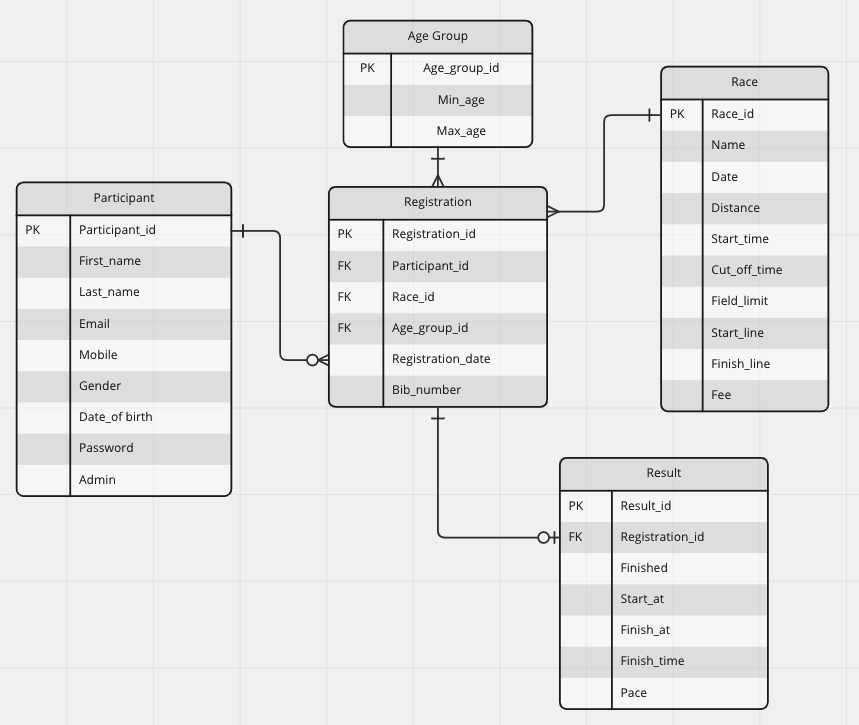
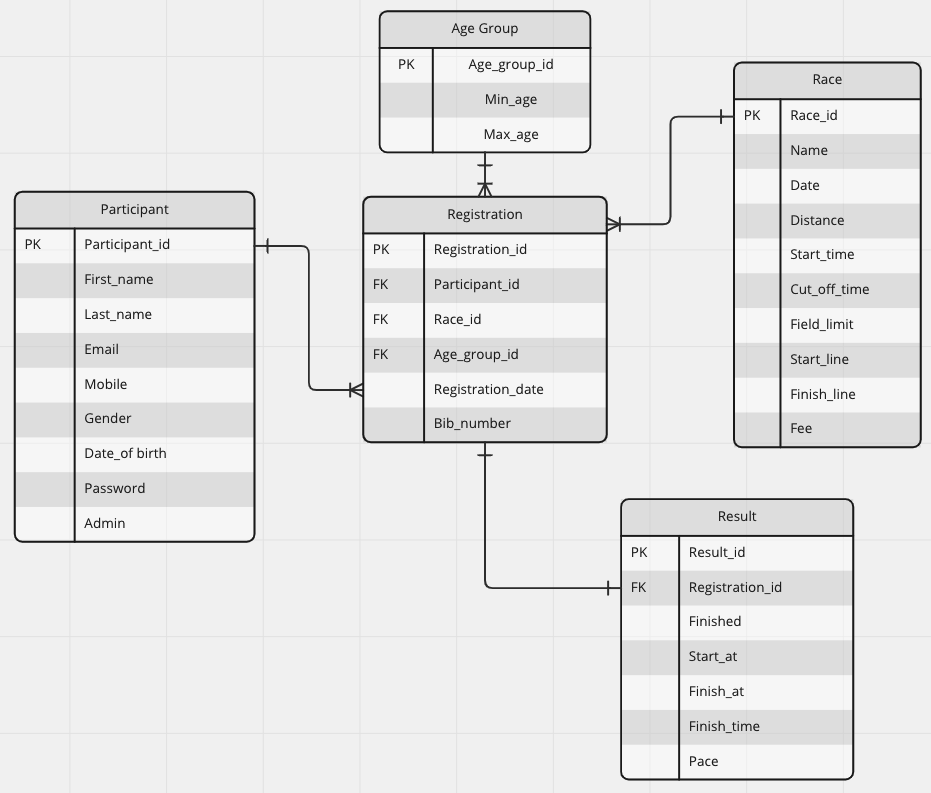
updated readme

Changed region(s): [[0.3329, 0.0, 0.9988, 0.7586], [0.0, 0.2428, 0.3329, 0.6979], [0.6054, 0.6069, 0.9383, 1.0]]

diff --git a/README.MD b/README.MD
@@ -1,3 +1,13 @@
+## Problem to be solved and reasons why it needs solving
+
+Every year, thousands of long-distance running festivals take place around the world. As a marathon lover, currently, there is no good way for me to view all of the past running events' data in one place, so an API that stores all the data could be a valuable resource for the public.
+
+The API can provide historical data on previous races, such as participants' information, race information, and overall results based on selected race, age group, and gender. With all these data, this API can act as a tool for the users to analyse their performance compared with world-leading runners, and keep updated with running events happening every day.
+
+With some tweaks, this API can also provide live updates on the status of runners during a race. By cooperating with event organisers, the API can get real-time information about the events and participants, such as weather, runners' live locations, time used, and distance travelled. The audience can utilise the information to track their preferred runners, while coaches can also use it to analyse runners' performance and prepare future coaching plans.
+
+Overall, this API that collects data on long-distance running events could be a useful resource for anyone involved in the sport, including runners, coaches, event organisers and audiences.
+
 ## How to install and run the API
 
 Python3 is required for this project. Before getting into the database, the user needs to activate the virtual environment and install the required packages. Make sure you are in the path /src, and run below commands in terminal:
@@ -8,7 +18,7 @@ source .venv/bin/activate
 pip install requirement.txt
 ```
 
-This API runs on a database called 'marathon_race', so a database and user need to be created first. To create the database, activate PostgreSQL and run the below commands in PostgreSQL:
+This API runs on a database called 'marathon_race', so a database and user must be created first. To create the database, activate PostgreSQL and run the below commands in PostgreSQL:
 
 ```sql
 CREATE DATABASE marathon_race;
@@ -24,33 +34,35 @@ flask db seed
 flask run
 ```
 
+## Database system advantages and drawbacks
+
+The selected database system is PostgreSQL. The main reasons include:
+
+- A non-relational database is more commonly used to store data that are not convenient to be represented by two-dimensional tables, such as text, pictures, and reports. The structure of two-dimensional tables is closer to the real w world and easy to understand. Also, relational databases are easy to use with common SQL statements. In this API, the data, such as participants' information, race information, and results, are more suitable to be stored in two-dimensional tables, so a relational database system is selected in this case.  <sup>[1]</sup>
+
+- Among all of the relational database systems, PostgreSQL has been selected mainly because PostgreSQL is an open-source, accessible, and robust relational database management system. In addition, it has excellent documentation and community support, making it simple to learn and use.
+- PostgreSQL is ACID (Atomicity, Consistency, Isolation, and Durability) compliant, reducing the possibility of data redundancy and inconsistency. <sup>[2]</sup>
+
+- PostgreSQL provides excellent language support, including Python, the primary language used in this API.
+
+- The write-ahead logging standard makes PostgreSQL a stable database with less possibility of data being non-recoverable. 
+
+However, PostgreSQL can also have some drawbacks compared with other DBMSs, such as:
+
+- As a relational database system, PostgreSQL is not as flexible as non-relational databases. In addition, the predefined data structure makes the data storing more limited and data querying less efficient than others.
+
+- Because PostgreSQL is open source and not controlled by a single organisation, it is generally less user-friendly than other DBMSs, such as its graphical user interface.
+- The disadvantage that comes with ACID transactions is the slower speed of reading and writing operations. <sup>[3]</sup>
+
+## Key functionalities and benefits of an ORM
+
+- ORM provides mapping to relational databases, which allows developers to manipulate data, such as processing CRUD (create, read, update, and delete) operations in the database by writing codes in their familiar programming languages instead of raw SQL statements. 
+- The database access details are hidden under the hoods, making the codes cleaner and development faster.
+- Minimum code changes are required when the database changes, making switching between databases fast and easy. <sup>[4]</sup>
+- SQL injection is a kind of online attack, using SQL statements, to try to steal confidential information of a program from the backend. An ORM can effectively reduce the risk of SQL injection by significantly eliminating the use of raw SQL queries. <sup>[5]</sup>
+- ORM allows sanitising the data using own-defined statements and reduces data security and usability issues. 
+
 ## Endpoints
-
-Below responses may apply to all routes that required JWT access token.
-
-- Error: missing authorization header
-
-```json
-{
-    "msg": "Missing Authorization Header"
-}
-```
-
-- Error: token expired
-
-```json
-{
-    "msg": "Token has expired"
-}
-```
-
-- Error: invalid token
-
-```json
-{
-    "msg": "Signature verification failed"
-}
-```
 
 ------------------------------------------------------------------------------------------
 
@@ -61,14 +73,14 @@ Below responses may apply to all routes that required JWT access token.
 
 #### Required data
 
-The user needs to send below data in a JSON format.
+The user needs to send the below data in JSON format.
 
 | Name          | Required | Data type | Description                                                          |
 |---------------|----------|-----------|----------------------------------------------------------------------|
 | first_name    | required | string    | must only contain alphabet letters                                   |
 | last_name     | required | string    | must only contain alphabet letters                                   |
 | email         | required | string    | must be a valid email address                                        |
-| mobile        | required | string    | must be a valid Australian mobile number starts with 04              |
+| mobile        | required | string    | must be a valid Australian mobile number starting with 04              |
 | password      | required | string    | must be at least 8 letters long and have at least 1 uppercase letter |
 | date_of_birth | required | string    | must be in a format of yyyy-MM-dd                                    |
 | gender        | required | string    | must be in ['male', 'female']                                        |
@@ -134,11 +146,11 @@ The user needs to send below data in a JSON format.
 
 The user is required to login with either email or mobile. If both are provided, the API will look for existing user with email first, if none, then it will search with mobile.
 
-| Name          | Required | Data type | Description                                                          |
-|---------------|----------|-----------|----------------------------------------------------------------------|
-| email         | optional | string    | must be a valid email address                                        |
-| mobile        | optional | string    | must be a valid Australian mobile number starts with 04              |
-| password      | required | string    | must be at least 8 letters long and have at least 1 uppercase letter |
+| Name     | Required | Data type | Description                                                  |
+| -------- | -------- | --------- | ------------------------------------------------------------ |
+| email    | optional | string    | must be a valid email address                                |
+| mobile   | optional | string    | must be a valid Australian mobile number starting with 04    |
+| password | required | string    | must be at least 8 letters long and have at least 1 uppercase letter |
 
 #### Example payload
 
@@ -296,15 +308,15 @@ JWT access token required. Non-admin users can only update their own personal de
 
 To update any field of the personal details, the user needs to send the updated data in the body of the request in a JSON format.
 
-| Name          | Required | Data type | Description                                                          |
-|---------------|----------|-----------|----------------------------------------------------------------------|
-| first_name    | optional | string    | must only contain alphabet letters                                   |
-| last_name     | optional | string    | must only contain alphabet letters                                   |
-| email         | optional | string    | must be a valid email address                                        |
-| mobile        | optional | string    | must be a valid Australian mobile number starts with 04              |
+| Name          | Required | Data type | Description                                                  |
+| ------------- | -------- | --------- | ------------------------------------------------------------ |
+| first_name    | optional | string    | must only contain alphabet letters                           |
+| last_name     | optional | string    | must only contain alphabet letters                           |
+| email         | optional | string    | must be a valid email address                                |
+| mobile        | optional | string    | must be a valid Australian mobile number starting with 04    |
 | password      | optional | string    | must be at least 8 letters long and have at least 1 uppercase letter |
-| date_of_birth | optional | string    | must be in a format of yyyy-MM-dd                                    |
-| gender        | optional | string    | must be in ['male', 'female']                                        |
+| date_of_birth | optional | string    | must be in a format of yyyy-MM-dd                            |
+| gender        | optional | string    | must be in ['male', 'female']                                |
 
 
 #### Example payload
@@ -857,7 +869,7 @@ None
 
 #### Required data
 
-JWT access token required. Admin user only. User needs to input all required fields below. The age group will be determined by the program automatically based on participant's date_of_birth, so it shouldn't be passed here.
+JWT access token required. Admin user only. User needs to input all required fields below. The program will automatically determine the age group based on participant's date_of_birth, so it shouldn't be passed here.
 
 | Name             | Required | Data type | Description                                                |
 |------------------|----------|-----------|------------------------------------------------------------|
@@ -1361,3 +1373,139 @@ None
 ```
 
 </details>
+
+## ERD
+
+![ERD](./docs/ERD.png)
+
+## Detail any third party services that your *app* will use
+
+- [Flask](https://flask.palletsprojects.com/en/2.2.x/): As the framework to develop RESTful API. It provides methods to define routes, handle HTTP requests and responses, and manage application configurations.
+- [Flask-SQLAlchemy](https://flask-sqlalchemy.palletsprojects.com/en/3.0.x/): Makes SQLAlchemy available for Flask. SQLAlchemy is an ORM that enables developers to process CRUD operations to the database without writing raw SQL statements.
+- [Flask-Bcrypt](https://flask-bcrypt.readthedocs.io/en/1.0.1/): A Flask extension that provides bcrypt hashing utilities for flask applications. In this project, the password of the participants has been hashed using method ```generate_password_hash()```, and ```check_password_hash()``` is used to check if the login details are correct.
+- [Flask-JWT-Extended](https://flask-jwt-extended.readthedocs.io/en/stable/): For authentication of the API. For example, ```create_access_token()```generates JSON Web Tokens. ```jwt_required()``` acts as a decorator to the routes which require login, and  ```get_jwt_identity()``` to get the identity of a JWT.
+- [Flask-Marshallow](https://flask-marshmallow.readthedocs.io/en/latest/): A Flask extension to allow object deserialisations and serialisations, so the result can be output as JSON format.
+- [psycopg2](https://pypi.org/project/psycopg2/): For database connection between SQLAlchemy and PostgreSQL.
+- [phonenumbers](https://pypi.org/project/phonenumbers/): For phone number validations. ```parse()``` is the method to create a ```PhoneNumber``` object and `is_valid_number()` is used to validate whether the phone number is valid.
+- [password_strength](https://pypi.org/project/password-strength/): The requirement of password strength in this project is at least 8 letters long and at least 1 uppercase letter. This is implemented with the help of the method `PasswordPolicy.from_names()` in this package.
+- [email-validator](https://pypi.org/project/email-validator/): The method `validate_email` from this package has been used to validate the email format of user input.
+
+## Describe your projects *models* in terms of the relationships they have with each other
+
+#### Participants to Registrations
+
+The relationship between participants and registrations is a one-to-many relationship. To achieve this relationship, there should be a foreign key 'participant_id' in the registrations table:
+
+```python
+# participant_id as a foreign key in the registration table
+participant_id = db.Column(db.Integer(), db.ForeignKey('participants.id'), nullable=False)
+```
+
+Also, to establish a bidirectional relationship, a ```db.relationship``` is declared in the participants model:
+
+```python
+registrations = db.relationship('Registration', backref = 'participant')
+```
+
+#### Races to Registrations
+
+Similar to above, the relationship between races and registrations is also one-to-many. So a foreign key of 'race_id' is added in the registration table:
+
+```python
+# add race_id as foreign key in registration table
+race_id = db.Column(db.Integer(), db.ForeignKey('races.id'), nullable=False)
+```
+
+And a ```db.relationship``` is declared in the races model:
+
+```python
+registrations = db.relationship('Registration',backref = 'race')
+```
+
+#### Age_groups to Registrations
+
+Also similar to above, it's a one-to-many relationship, and 'age_group_id' is added as a foreign key in the registrations table.
+
+```python
+# add age_group_id as foreign key in the registration table
+age_group_id = db.Column(db.Integer(), db.ForeignKey('age_groups.id'), nullable=False)
+```
+
+And the relationship is declared in the age_groups model as below.
+
+```python
+registrations = db.relationship('Registration', backref = 'age_group')
+```
+
+#### Registrations to Results
+
+It's a one-to-one relationship between registrations and results. To declare this relationship, a 'registration_id' has been added as a foerign key in the results table. ```unique = True``` is added because one registration can only correspond to one result.
+
+```python
+# add registration_id as a foreign key in the result table
+registration_id = db.Column(db.Integer(), db.ForeignKey('registrations.id'), nullable=False, unique=True)
+```
+
+And to make sure it's a one-to-one relationship, the below codes are added to the registrations model:
+
+```python
+  result = db.relationship(
+      'Result',
+      backref = 'registration',
+      # make sure it's one-to-one relationship
+      uselist = False
+  )
+```
+
+In this case, the statement `uselist = False` tells SQLAlchemy to load the connection as a scalar rather than a list, indicating this is a one-to-one relationship instead of one-to-many.
+
+## Discuss the database relations to be implemented in your application
+
+The tables include:
+
+1. Participants: contains the participants who have registered in the application. Gender and date of birth are required, because it will help query the race results based on different genders and age groups, which is a popular demand by the users in marathon races.
+2. Age_groups: contains the min and max age of each age group. This mainly helps the query of race results based on age groups.
+3. Races: contains the details of each race, such as name, date, location, and distance. 
+4. Registrations: contains the registration details corresponding to each participant and race. 
+5. Results: the result of each registration.
+
+The relations between each table:
+
+1. Participants to Races: many-to-many relationship. One participant can register for multiple races, and one race can have up to thousands of participants, so a new table is required in this case, which is the registration table.
+2. Participants to Registrations: one-to-many relationship. One participant can sign up for none, one, or multiple races during different dates, so this is a one-to-many relationship.
+3. Age_groups to Registrations: one-to-many relationship. One registration can only be linked with one age group, but one age group can have many registrations. 
+4. Races to Registrations: one-to-many relationship. Similar to above, there can be many registrations in a single race, and one registration is only linked to one race.
+5. Registrations to Result: one-to-one relationship. They are exclusive to each other. These two tables are not combined because the result table will be updated after the race has begun and registration has stopped. By separating them, updating the result table will be easier and faster, since it's a smaller table. The separation also makes it more quickly when querying for different data, for example, when the user only asks for the details of registrations. 
+
+## Describe the way tasks are allocated and tracked in your project
+
+The project management is mainly divided into 3 parts:
+
+#### Planning & Design
+
+In this section, the idea of the API has been developed, the ERD is finished, and most of the API endpoints are defined.
+
+#### Implementation & Testing
+
+The coding work began in this project stage, including setting up the environment, initialising the database, and implementing routes. The manual testing tasks were conducted together with the development process to ensure all endpoints are working correctly as expected.
+
+#### Documentation
+
+The final stage is to document all the endpoints, make a user manual of the API and answer all the questions from the assignment.
+
+![Trello project management](./docs/Trello project management.png)
+
+Please see the project in Trello: [Trello - Marathon Race API](https://trello.com/invite/b/5Xxb3pA0/ATTI7a9c360a905e20c5b1b3de84f0e8a22427836BF5/marathon-race-api)
+
+## References
+
+1. MongoDB. (n.d.). *Relational vs. Non-Relational Databases*. [online] Available at: https://www.mongodb.com/compare/relational-vs-non-relational-databases.
+
+2. Anon, (n.d.). *PostgreSQL Transaction*. [online] Available at: https://www.postgresqltutorial.com/postgresql-tutorial/postgresql-transaction/#:~:text=A%20PostgreSQL%20transaction%20is%20atomic.
+3. www.keboola.com. (n.d.). *What are the ACID properties of transactions, and why do they matter in data engineering?* [online] Available at: https://www.keboola.com/blog/acid-transactions#:~:text=Shortcomings%20of%20ACID%20transactions&text=Database%20systems%20that%20rely%20on.
+
+4. www.fullstackpython.com. (n.d.). *Object-relational Mappers (ORMs)*. [online] Available at: https://www.fullstackpython.com/object-relational-mappers-orms.html.
+
+5. GlobalDots. (2021). *8 best practices to prevent SQL injection attacks*. [online] Available at: https://www.globaldots.com/resources/blog/8-best-practices-to-prevent-sql-injection-attacks/.
+
+   
